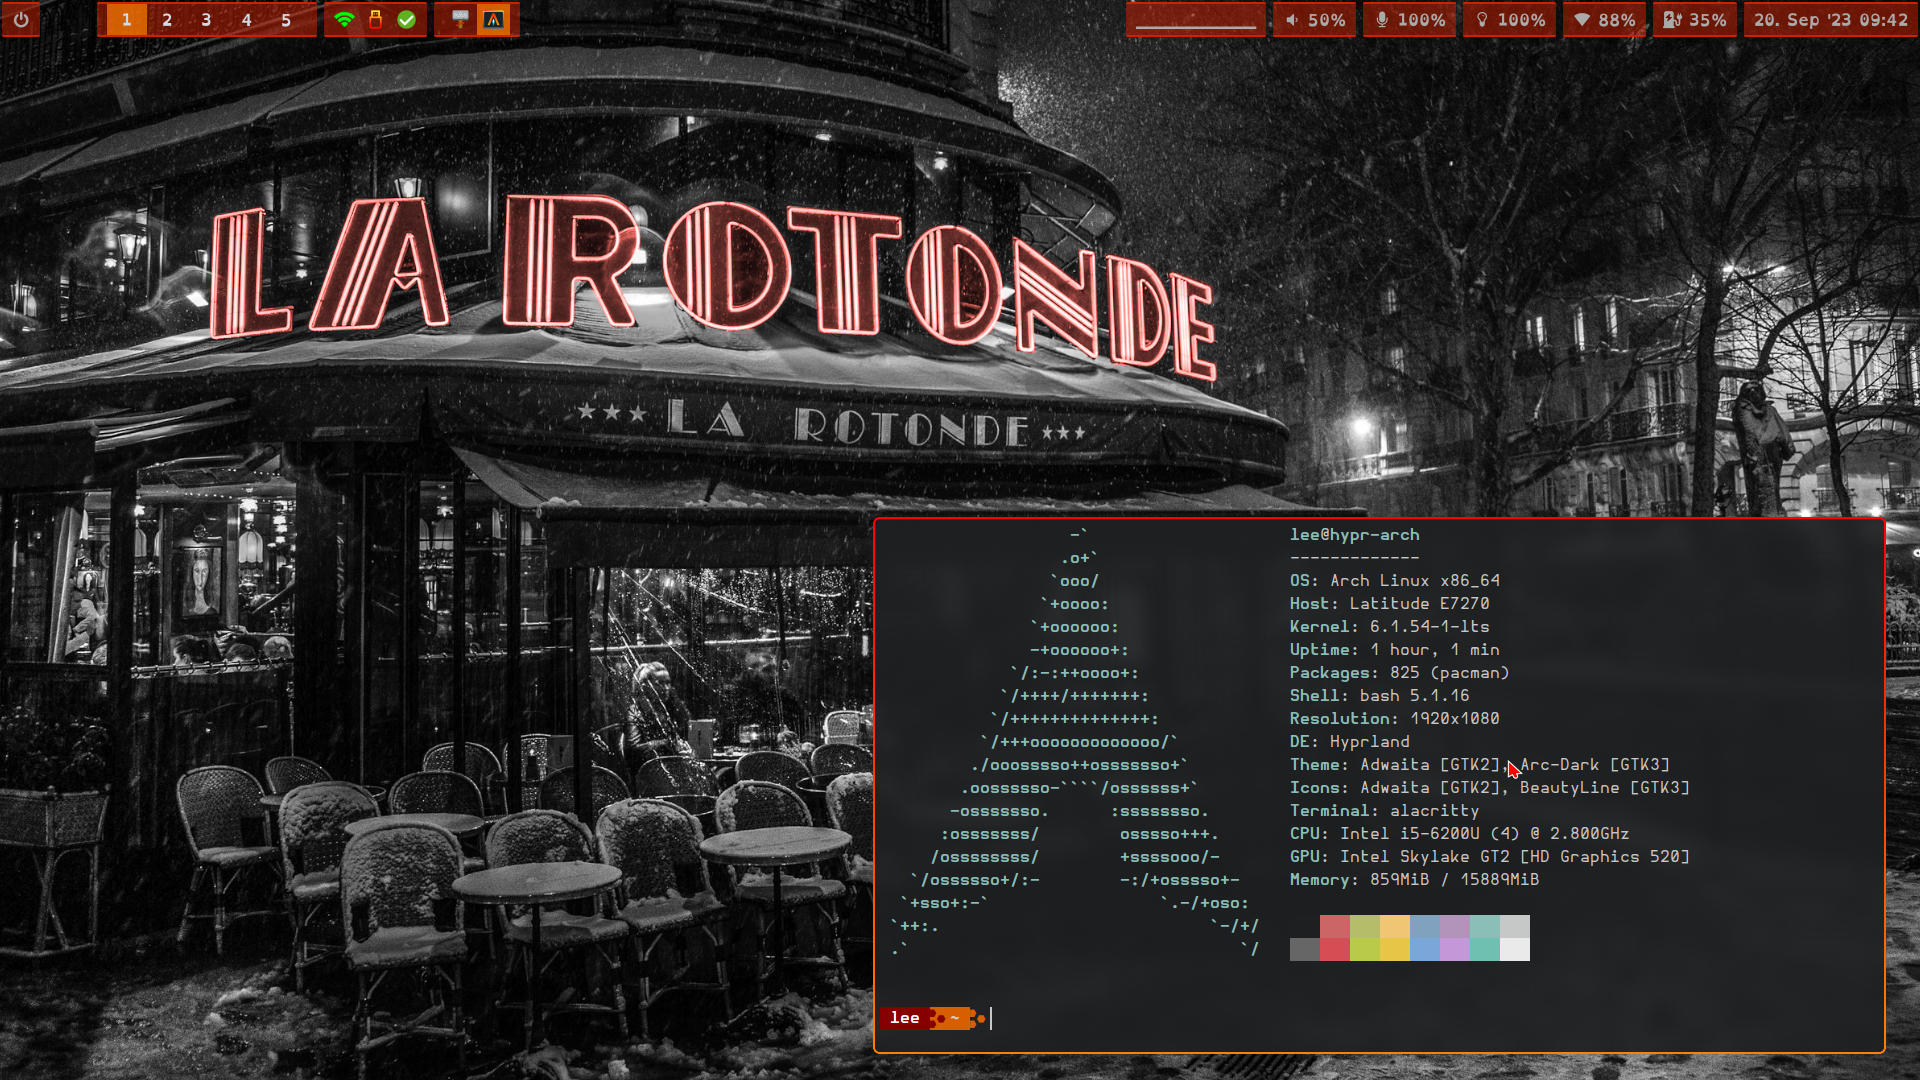
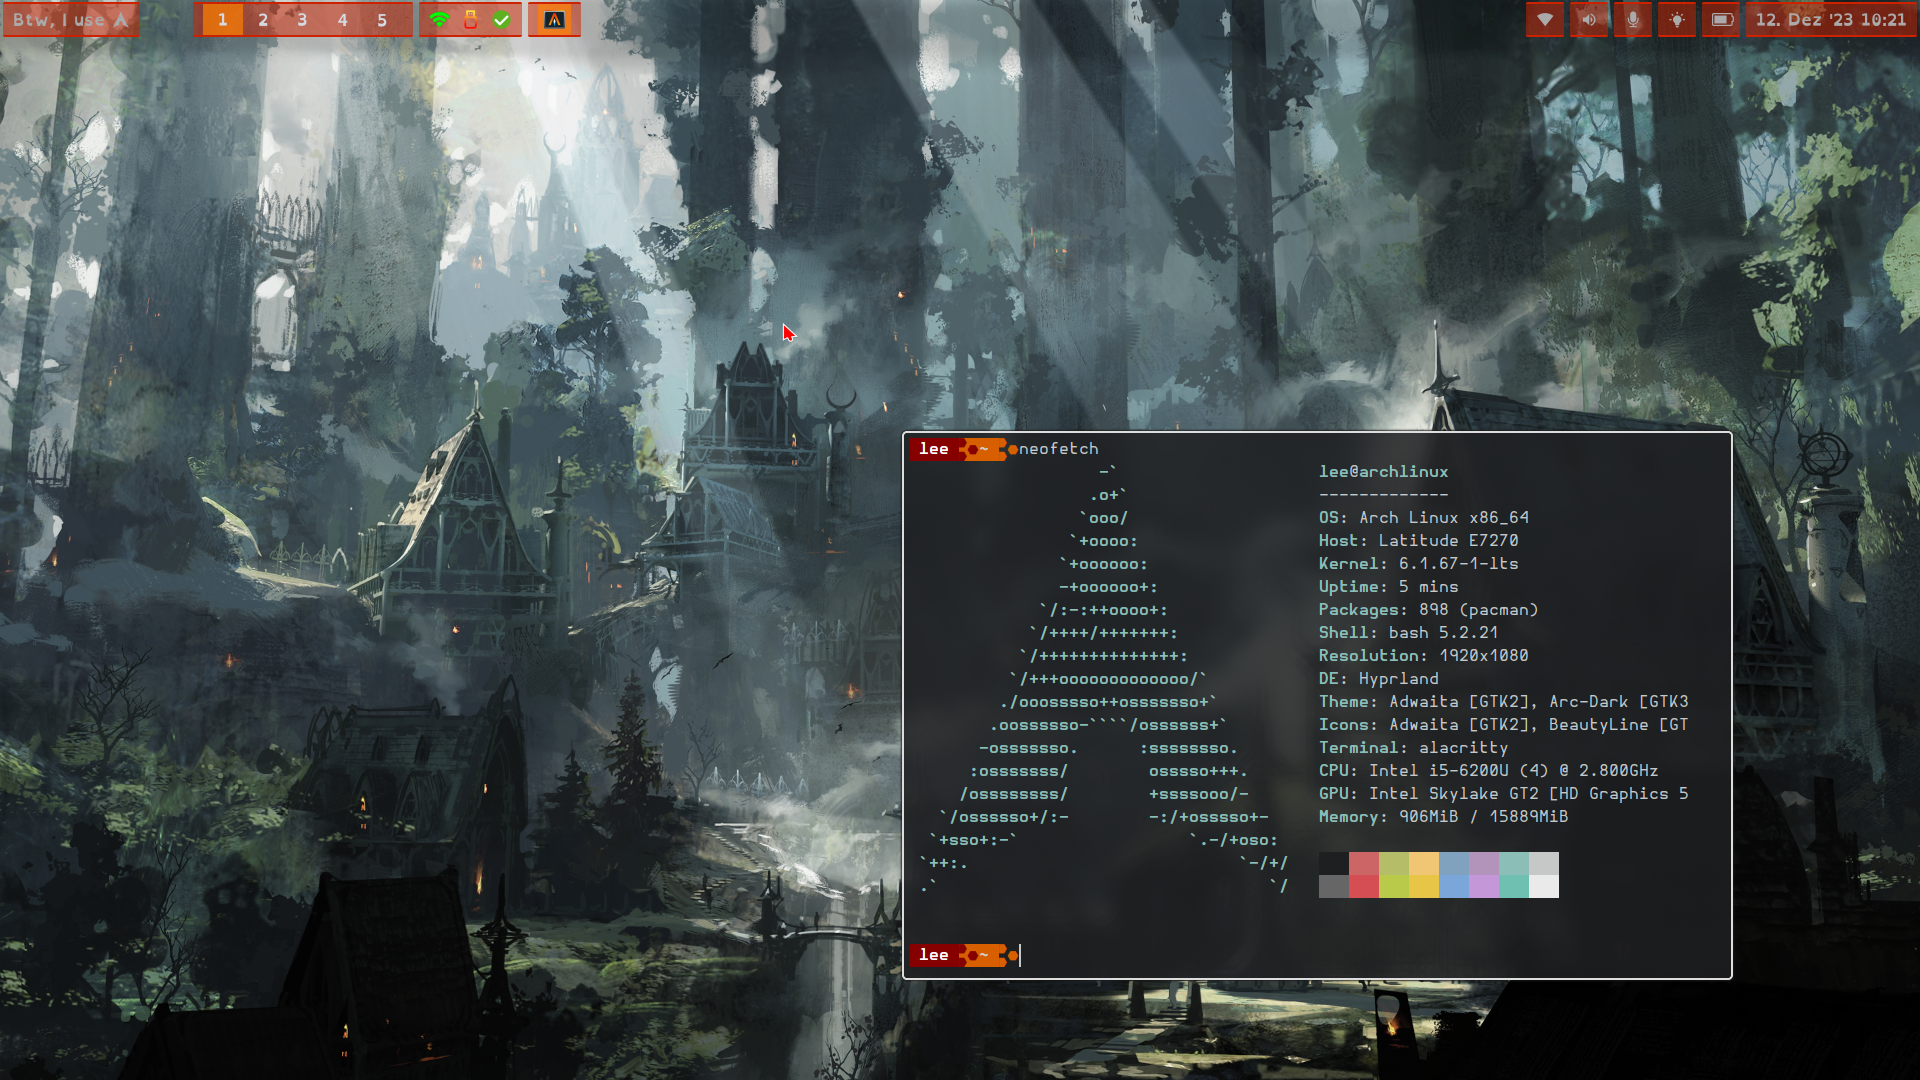
updated README and screenshots to show latest features

diff --git a/README.md b/README.md
@@ -22,3 +22,14 @@ Using hyprland is an experiment to
 
 <img src="https://github.com/mutoroglin/dotfiles/blob/main/Pictures/screenshots/system_info.png" height="auto" width="auto"/>
 
+## waybar highlights
+Waybar is a very customizable status bar.
+I display on the left side of the bar the powerbutton, the workspace overview the taskbar and the tray.
+On the righthand side I display all kind of status icons and my system clock.
+A highlight is the [CAVA](https://aur.archlinux.org/packages/cava) module, an audio visualizer. It unwraps next to the volume icon as audio is played.
+
+<img src="https://github.com/mutoroglin/dotfiles/blob/main/Pictures/screenshots/waybar_cava_in_motion.png" height="auto" width="auto"/>
+
+In order to easily install waybar with cava functionality I setup and maintain two AUR packages (for the ARCH ecosystem):
+ * [libcava](https://aur.archlinux.org/packages/libcava)
+ * [waybar-cava](https://aur.archlinux.org/packages/waybar-cava]waybar-cava)
